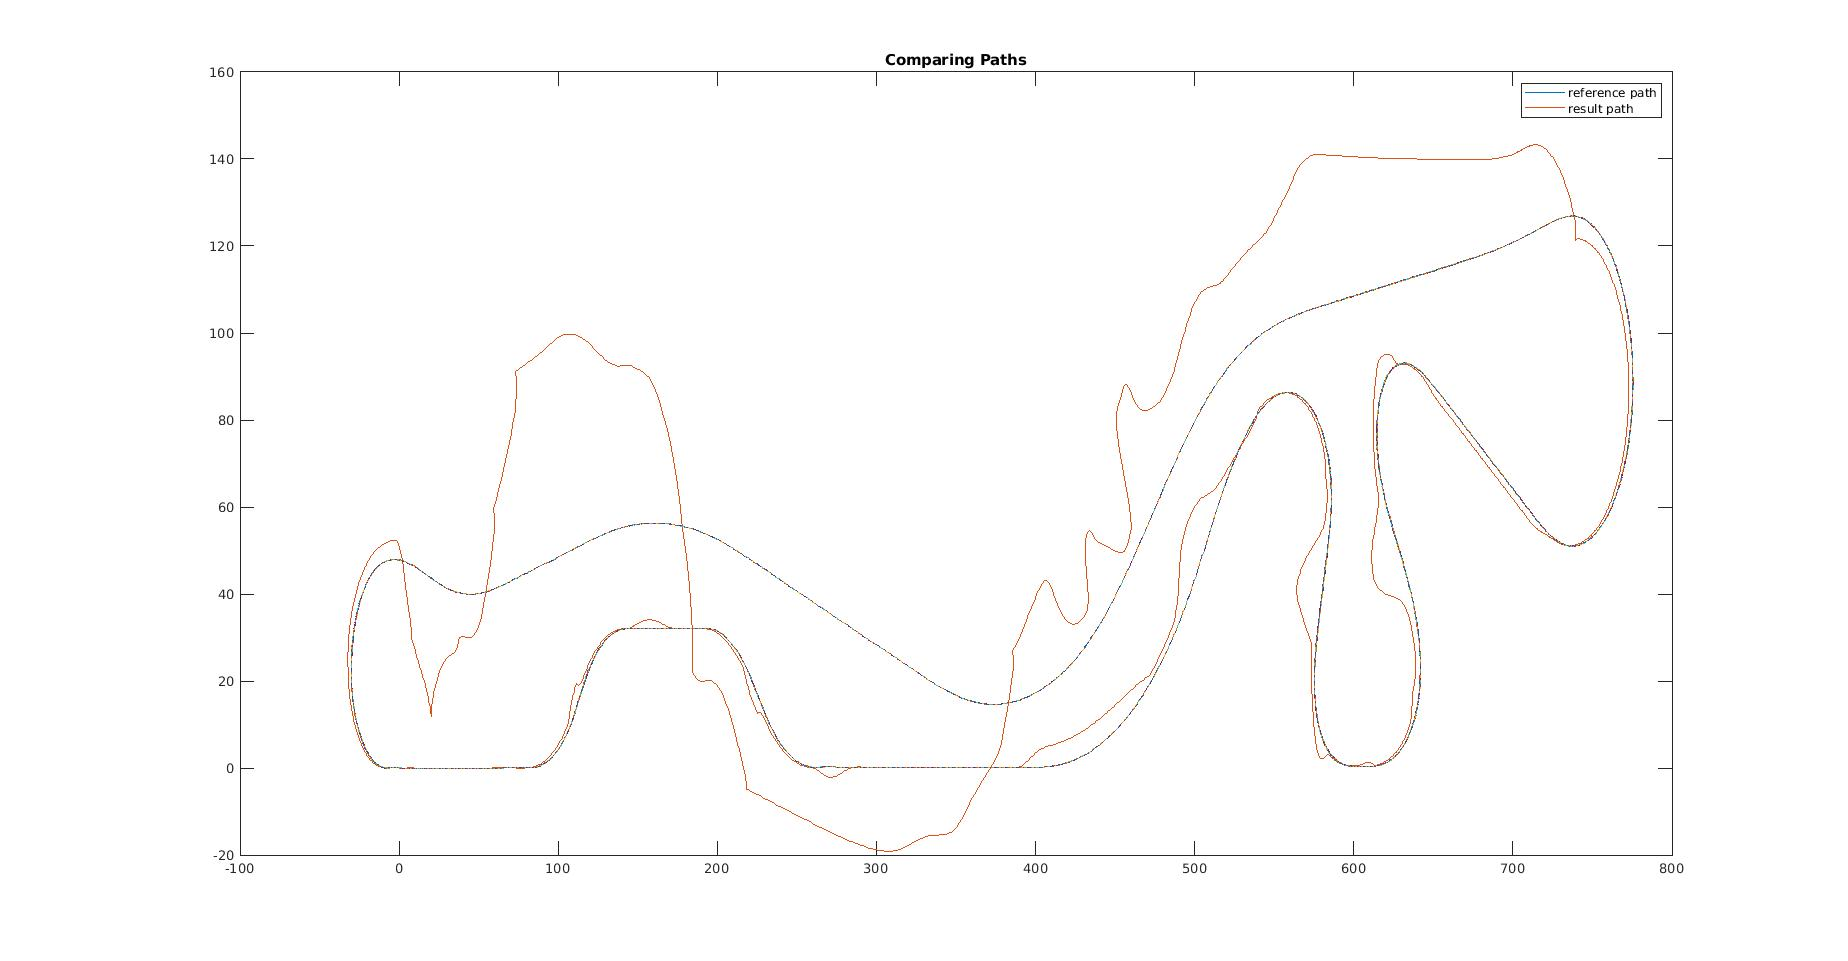
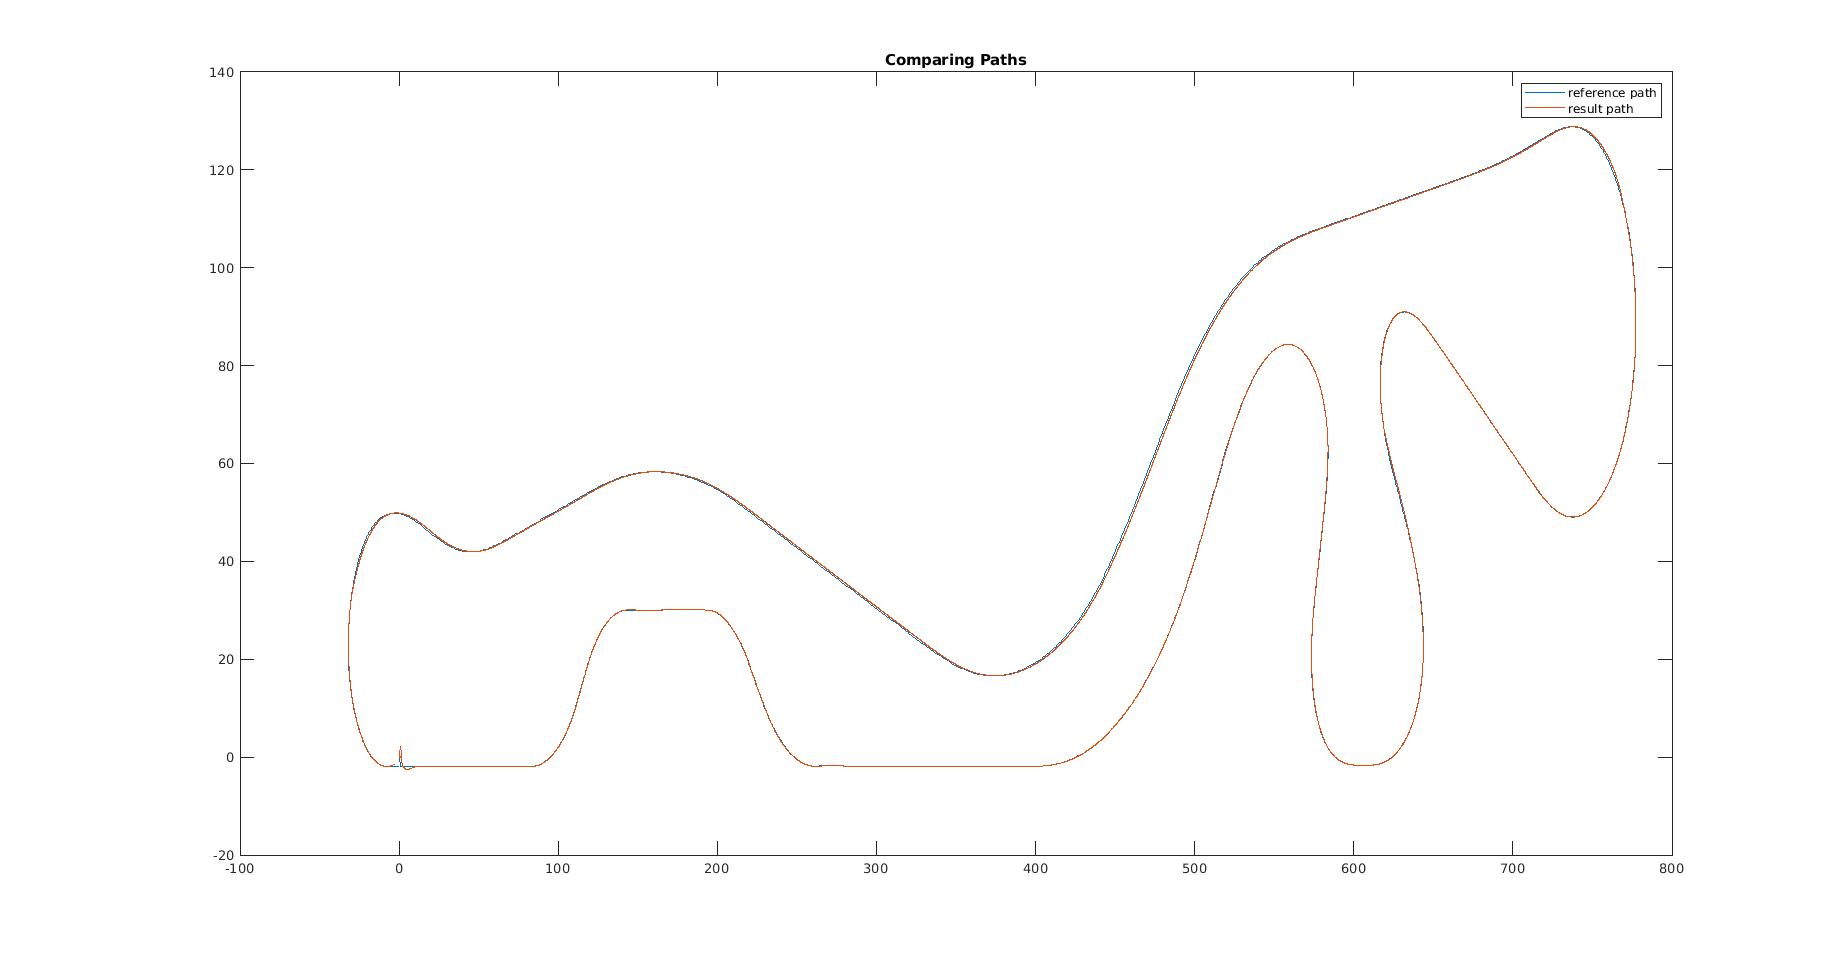
final changes maybe

diff --git a/linearization_model/save_ref_from_sim.m b/linearization_model/save_ref_from_sim.m
@@ -1,7 +1,7 @@
 clear all
 %basic parameters
 T = 0.04;
-N = 5;
+N = 20;
 u_max_const = [40;
               pi/2-0.2];
 u_min_const = [2;
@@ -14,7 +14,14 @@ num_iterations = sz(1,1);
 
 res_x = [];
 res_u = [];
+middle_road_ref = [test_lap(:, 2)';test_lap(:, 3)'];
 [ref_x, ref_u] = Reference_generator([test_lap(:, 2)';test_lap(:, 3)'], T);
+for k = 1:50
+    ref_x(1:2,k) = [test_lap(1, 2);test_lap(1, 3)];
+    ref_u(:,k) = [test_lap(1,80);test_lap(1,14)];
+end
+ref_x(:,1) = [test_lap(1,2);test_lap(1,3);0];
+ref_u(:,1) = [5;test_lap(1,14)];
 x = ref_x(:, 1);
 u = ref_u(:, 1);
 max_err_corrections = 20;
@@ -28,8 +35,11 @@ while 1
    %% calculate u_min using quadprog
    H = double(2*(B_dash'*Q_spec*B_dash + R_spec));
    f = double(2*B_dash'*Q_spec*A_spec*(x-ref_x(:,k)));
-   [constraints_l,constraints_r] = get_constraints(N,u_max_const,u_min_const,u,u_max_rate_change);
-   
+   if k == 1
+       [constraints_l,constraints_r] = get_constraints(N,u_max_const,u_min_const,u,u_max_rate_change,x,middle_road_ref(:,k),middle_road_ref(:,k+1));
+   else
+       [constraints_l,constraints_r] = get_constraints(N,u_max_const,u_min_const,u,u_max_rate_change,x,middle_road_ref(:,k-1),middle_road_ref(:,k));
+   end
    options = optimset('Display','off');
    u_quad = quadprog(H, f, constraints_l, constraints_r,[],[],[],[],[],options);
    u = u_quad(1:2, 1);
@@ -47,7 +57,7 @@ while 1
    if k >= num_iterations
        break;
    elseif err < treshold || curr_err_corrections >= max_err_corrections
-       k = k + 1;
+       k = k + 1
        curr_err_corrections = 0;
    elseif err >= treshold
        curr_err_corrections = curr_err_corrections + 1;

diff --git a/linearization_model/get_constraints.m b/linearization_model/get_constraints.m
@@ -1,4 +1,4 @@
-function [con_l,con_r] = get_constraints(N,u_max,u_min,prev_u,max_rate_change_u)
+function [con_l,con_r] = get_constraints(N,u_max,u_min,prev_u,max_rate_change_u,x,road_mid_p,road_mid_n)
 %UNTITLED Summary of this function goes here
 %   Detailed explanation goes here
 sz_u = numel(u_max);
@@ -16,5 +16,17 @@ con_l = [eye(N*sz_u);
          -eye(N*sz_u)];
 con_r = [repmat(new_u_max,N,1);
          repmat(new_u_min,N,1)];
+new_ref = (road_mid_p + road_mid_n) / 2;
+radius = norm(new_ref - road_mid_n,2);
+if norm(x(1:2,:) - new_ref,2) < radius/5
+    %if -new_u_min(2,1) < 0 && new_u_max(2,1) > 0
+        con_r(2,1) = 0;
+    %end
+end
+% if norm(x(1:2,:) - new_ref,2) >= 2 + radius
+%     %if -new_u_min(2,1) < 0 && new_u_max(2,1) > 0
+%         con_r(N*sz_u + 2,1) = 0;
+%     %end
+% end
 end
 

diff --git a/linearization_model/Reference_generator.m b/linearization_model/Reference_generator.m
@@ -1,7 +1,7 @@
 function [ref_x_outer,ref_u,curvature_radius] = Reference_generator(global_xy, T)
 %Reference_generator (theta,v, delta)
 L = 2.5;
-Lfw = 2;    %corresponds to looking distance from the trajectory
+Lfw = 3;    %corresponds to looking distance from the trajectory
 WL = 4; %Width of a lane;
 theta = [];
 [x_inner, y_inner, x_outer, y_outer, curvature_radius] = parallel_curve(global_xy(1,:), global_xy(2,:), WL/2,0,0);
@@ -29,7 +29,7 @@ for k = 1:b
     end
 end
 %% Reference velocity
-Vr = 1;
+Vr = 5;
 %P-controller
 Kp = 0.005;
 for k = 1:b
